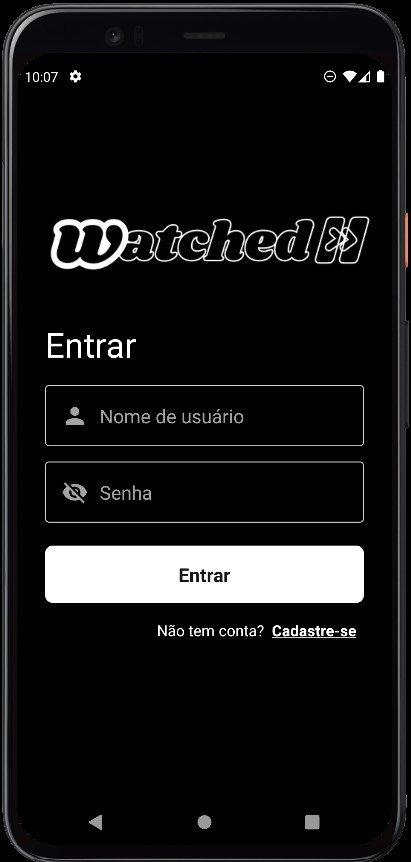
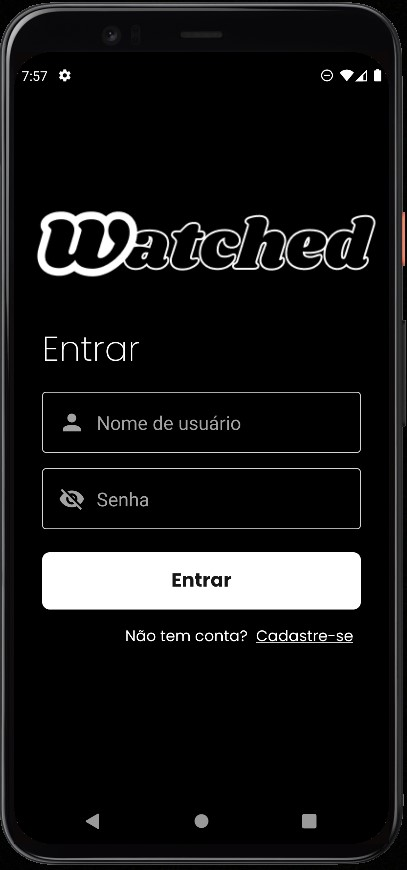
Updating readme.md & adding comments

diff --git a/src/screens/LoginScreen.js b/src/screens/LoginScreen.js
@@ -1,8 +1,14 @@
+/**
+* Login Screen
+* Created by Emmanuella Albuquerque on 2023/01/31.
+*/
+
 import { Text, Center, Input, Stack, Icon, Pressable, Image, Box } from 'native-base';
 import { useTheme } from '@react-navigation/native';
 import { MaterialIcons } from '@expo/vector-icons';
 import { useState } from 'react';
 import logo from '../assets/images/logo.png';
+import logo2 from '../assets/images/logo2.png';
 import { TouchableOpacity, StyleSheet, Alert } from 'react-native';
 import { getNewToken, validateWithLogin } from '../services/MovieDbAPIClient';
 import AsyncStorage from '@react-native-async-storage/async-storage';
@@ -73,10 +79,10 @@ export function LoginScreen({ navigation }) {
       <Center style={{ flex: 1 }}>
         {/* "xs", "sm", "md", "lg", "xl", "2xl" */}
         <Image 
-          source={logo} 
+          source={logo2} 
           alt="logo" 
           mb="12"
-          size="sm"
+          size="md"
           w="100%"
         />
         <Stack space={4} w="85%">

diff --git a/src/screens/SignUp.js b/src/screens/SignUp.js
@@ -1,12 +1,22 @@
+/**
+* Sign Up Screen (The Movie DB WebView)
+* Created by Emmanuella Albuquerque on 2023/02/09.
+*/
+
 import { useState } from 'react';
-import { Text, Center,  } from 'native-base';
+import { Center  } from 'native-base';
 import { WebView } from 'react-native-webview';
 import { ActivityIndicator } from 'react-native';
 
 export function SignUp() {
 
   const [loading, setLoading] = useState(true);
-  const jsCode = `document.querySelector('.settings_panel').style.display = 'none';`;
+  const jsCode = `
+  document.querySelector('.settings_panel').style.display = 'none';
+  document.querySelector('.column_content').style.color = '#fff';
+  document.querySelector('#main').style.backgroundColor = '#031d33';
+  document.querySelector('#signup_form').style.color = '#fff';
+  `;
 
   return (
     <>

diff --git a/src/contexts/AuthContext.js b/src/contexts/AuthContext.js
@@ -1,6 +1,10 @@
+/**
+* Authentication Context
+* Created by Emmanuella Albuquerque on 2023/02/05.
+*/
+
 import React, { createContext, useEffect, useState } from 'react';
 import AsyncStorage from '@react-native-async-storage/async-storage';
-
 
 export const AuthContext = createContext({});
 

diff --git a/src/screens/TabMenuScreen.js b/src/screens/TabMenuScreen.js
@@ -1,3 +1,8 @@
+/**
+* Tab Menu Screen
+* Created by Emmanuella Albuquerque on 2023/01/31.
+*/
+
 import React from "react";
 import { HomeScreen } from './HomeScreen';
 import { WatchedShowsScreen } from './WatchedShowsScreen';

diff --git a/README.md b/README.md
@@ -9,11 +9,11 @@
 
 Home Screen | Details Screen | Watched Screen
 :---: | :---:| :---:|
-<img src=".github/images/HomeScreen.jpg" width = 300px> | <img src=".github/images/ShowDetailsScreen.jpg" width = 300px> | <img src=".github/images/WatchedScreen.jpg" width = 300px> |
+<img src=".github/images/tela1.jpg" width = 300px> | <img src=".github/images/DetailsScreen.jpg" width = 300px> | <img src=".github/images/WatchedScreen.jpg" width = 300px> |
 
-Login Screen | Details Screen | Watched Screen
+Login Screen | Sign Up (Web View) | Watched Screen
 :---: | :---:| :---:|
-<img src=".github/images/LoginScreen.jpg" width = 300px> | <img src=".github/images/tela1.jpg" width = 300px> | <img src=".github/images/tela2.jpg" width = 300px> |
+<img src=".github/images/LoginScreen.jpg" width = 300px> | <img src=".github/images/SignUpScreen.jpg" width = 300px> | <img src=".github/images/tela2.jpg" width = 300px> |
 
 ### Watched
 
@@ -30,12 +30,12 @@ Login Screen | Details Screen | Watched Screen
 #### implementar adição aos favoritos
 - [x] Create Session (session_id)
 - [x] Get Account Info (account id)
-- [ ] Fav
+- [x] Fav
 
 #### implementar pesquisa
 - [ ] 
 
 #### tarefas
 - [x] tela de login
-- [ ] tela de cadastro
-- [ ] mudar fonte
+- [x] tela de cadastro
+- [x] mudar fonte
